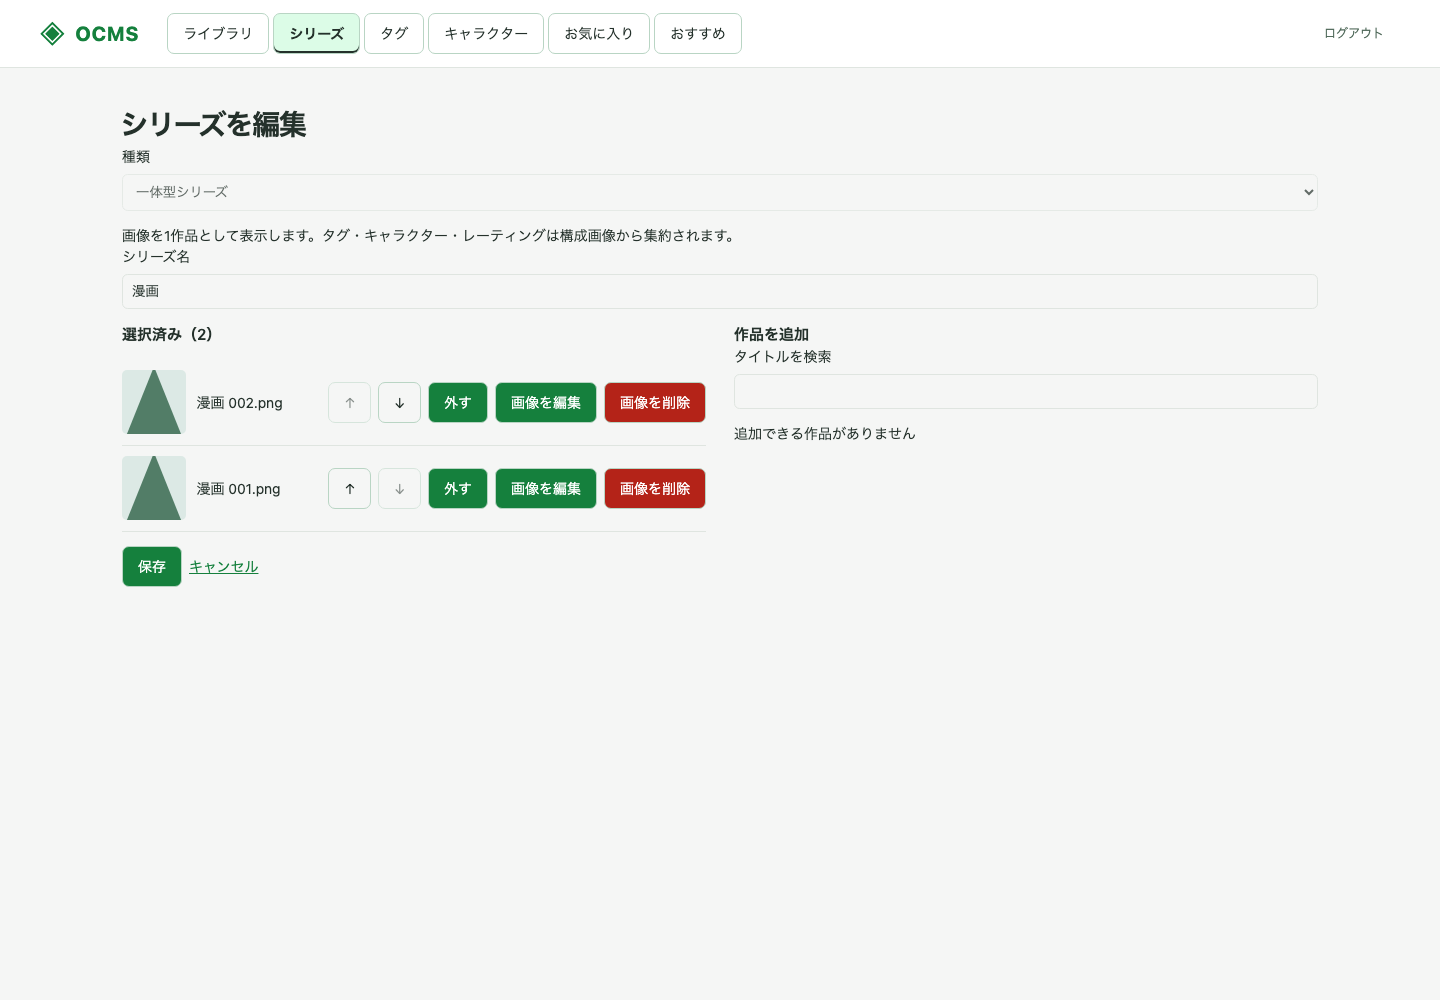
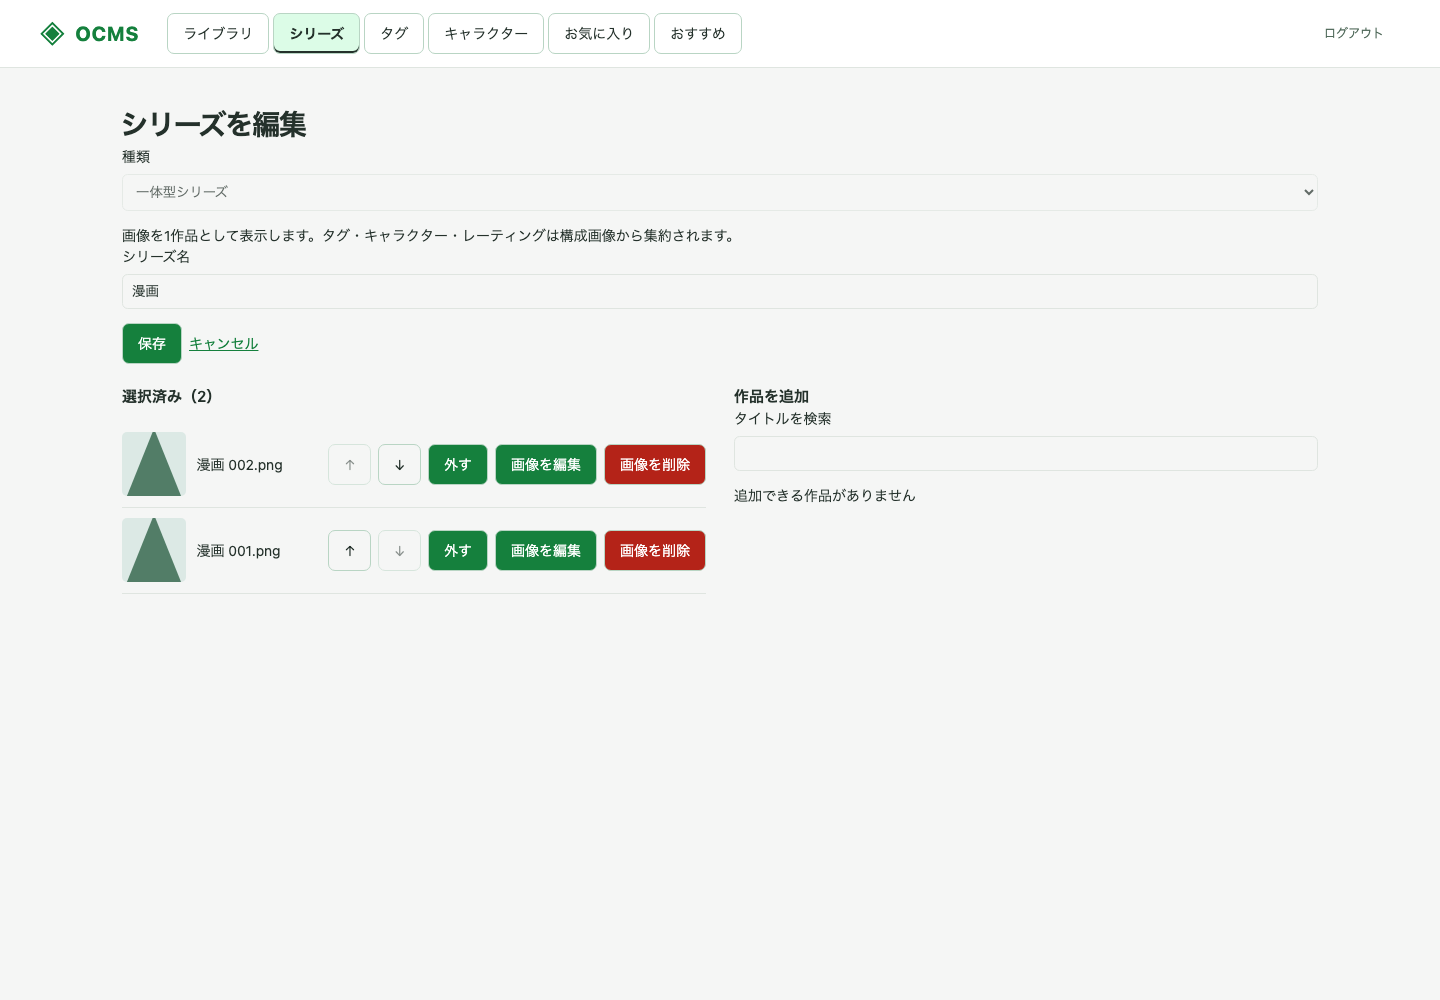
fix: place series save controls below the name field

Changed region(s): [[0.25, 0.31, 0.5938, 0.589], [0.0625, 0.31, 0.1875, 0.589], [0.5312, 0.465, 0.5938, 0.496]]

diff --git a/web/src/components/series/SeriesPage.tsx b/web/src/components/series/SeriesPage.tsx
@@ -318,6 +318,27 @@ export function SeriesPage({ request }: { request: Request }) {
                 onChange={(event) => setName(event.target.value)}
               />
             </label>
+            <div className="series-actions series-submit-actions">
+              <Button
+                type="submit"
+                disabled={
+                  members.length < 2 || !name.trim() || candidateLoading
+                }
+              >
+                {busy ? '保存中…' : '保存'}
+              </Button>
+              <Link
+                to={
+                  id
+                    ? `/series/${id}`
+                    : source
+                      ? `/assets/${source}`
+                      : '/series'
+                }
+              >
+                キャンセル
+              </Link>
+            </div>
             <div className="series-editor">
               <section>
                 <h2>選択済み（{members.length}）</h2>
@@ -432,27 +453,6 @@ export function SeriesPage({ request }: { request: Request }) {
                   </ul>
                 )}
               </section>
-            </div>
-            <div className="series-actions">
-              <Button
-                type="submit"
-                disabled={
-                  members.length < 2 || !name.trim() || candidateLoading
-                }
-              >
-                {busy ? '保存中…' : '保存'}
-              </Button>
-              <Link
-                to={
-                  id
-                    ? `/series/${id}`
-                    : source
-                      ? `/assets/${source}`
-                      : '/series'
-                }
-              >
-                キャンセル
-              </Link>
             </div>
           </fieldset>
         </form>

diff --git a/web/tests/series.spec.ts b/web/tests/series.spec.ts
@@ -368,3 +368,39 @@ test('series playback failures can retry inside the standard viewer', async ({
     a.filename,
   );
 });
+
+for (const width of [1440, 390]) {
+  test(`save stays directly below the name with long lists at ${width}px`, async ({
+    page,
+  }) => {
+    await setup(page);
+    await page.setViewportSize({ width, height: 740 });
+    await page.route('**/api/v1/series/suggestions', (route) =>
+      route.fulfill({
+        json: {
+          assets: Array.from({ length: 120 }, (_, i) => ({
+            ...a,
+            asset_id: `candidate-${i}`,
+            filename: `候補 ${i}.png`,
+          })),
+        },
+      }),
+    );
+    await page.goto('/series/comic/edit');
+    const save = page.getByRole('button', { name: '保存', exact: true });
+    await expect(save).toBeEnabled();
+    const nameBox = await page.getByLabel('シリーズ名').boundingBox();
+    const saveBox = await save.boundingBox();
+    const listBox = await page
+      .getByRole('heading', { name: '選択済み（2）' })
+      .boundingBox();
+    if (!nameBox || !saveBox || !listBox)
+      throw new Error('Editor controls must be visible');
+    expect(saveBox.y).toBeGreaterThanOrEqual(nameBox.y + nameBox.height);
+    expect(saveBox.y + saveBox.height).toBeLessThanOrEqual(listBox.y);
+    expect(saveBox.y + saveBox.height).toBeLessThanOrEqual(740);
+    expect(
+      await page.evaluate(() => document.documentElement.scrollHeight),
+    ).toBeGreaterThan(740);
+  });
+}

diff --git a/web/src/style.css b/web/src/style.css
@@ -1578,6 +1578,9 @@ summary .count {
 .series-members small {
   display: block;
 }
+.series-submit-actions {
+  margin-bottom: 1.5rem;
+}
 .series-actions {
   display: flex;
   align-items: center;
